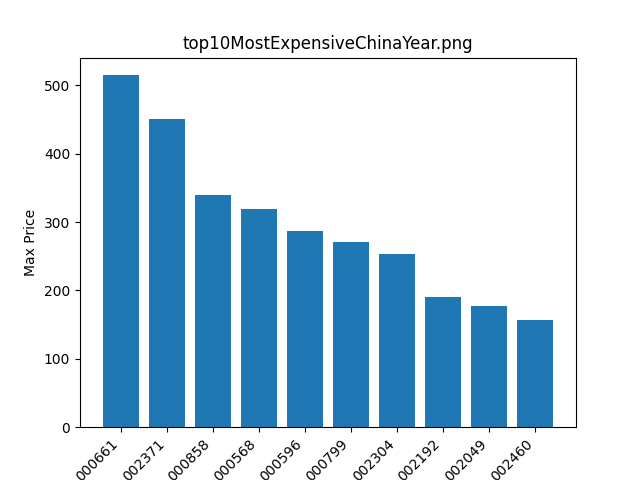
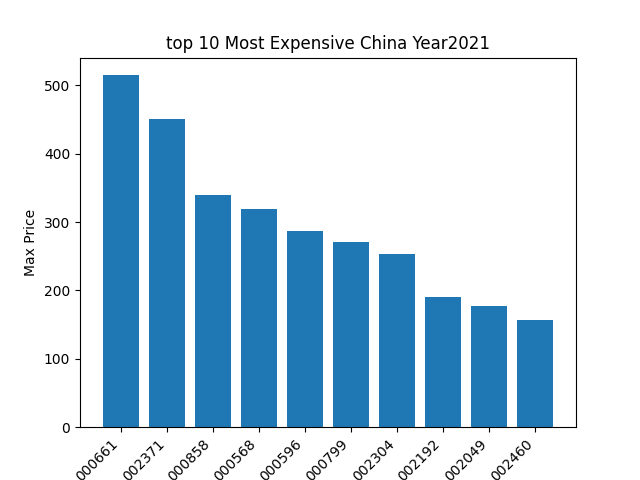
fix bug & optimize

Changed region(s): [[0.25, 0.0625, 0.75, 0.125]]

diff --git a/Script/top10MostExpensiveUSYear.py b/Script/top10MostExpensiveUSYear.py
@@ -1,8 +1,8 @@
 import os
 import sys
-import re
 from pyspark.sql import SparkSession
-from pyspark.sql.functions import col, max, udf
+from pyspark.sql.functions import col, to_date
+import pyspark.sql.functions as f
 from matplotlib import pyplot as plt
 
 
@@ -18,10 +18,10 @@ def top10MostExpensiveUSYear(dir, year):
             try:
                 df = spark.read.option("header", "true").csv(os.path.join(dir, file))
 
-                df = df.withColumn("Date", udf((lambda line : re.sub(r'(.*)-', '', line)))("Date"))
-                df = df.filter(col("Date") == year)
+                df = df.withColumn("date", to_date(df[0],"dd-MM-yyyy"))
                 df = df.withColumn("Close", col("Close").cast("float"))
-                df = df.groupBy("Date").max("Close")
+                df = df.groupBy(f.year("date").alias("Year")).max("Close")
+                df = df.where(df.Year==year)
 
                 maxprice = df.select("max(Close)").collect()[0][0]
                 maxprice = round(float(maxprice), 3)
@@ -36,23 +36,24 @@ def top10MostExpensiveUSYear(dir, year):
 
     return result[:10]
 
-def generateImg(result, path = "./"):
+def generateImg(result, year, path = "./"):
     Company, Price = zip(*result)
     plt.bar(Company, Price)
     plt.xlabel('Company')
     plt.ylabel('Max Price')
-    plt.title('top10MostExpensiveUSYear.png')
+    plt.title('top 10 Most Expensive US Year '+year)
     plt.xticks(rotation=45, ha="right")
-    plt.savefig(os.path.join(path, 'top10MostExpensiveUSYear.png'))
+    plt.savefig(os.path.join(path, 'top10MostExpensiveUSYear'+year+'.png'))
 
 if __name__ == "__main__":
     if len(sys.argv) < 3:
         print("Usage: spark-submit top10MostExpensiveUSYear.py <dataset dir> <year>")
+        exit(0)
 
     result = top10MostExpensiveUSYear(sys.argv[1], sys.argv[2])
     print(result)
 
     if len(sys.argv) > 3:
-        generateImg(result,sys.argv[3])
+        generateImg(result, sys.argv[2], sys.argv[3])
     else:
-        generateImg(result)
+        generateImg(result, sys.argv[2])

diff --git a/Script/top10MostExpensiveIndiaYear.py b/Script/top10MostExpensiveIndiaYear.py
@@ -1,8 +1,8 @@
 import os
 import sys
-import re
 from pyspark.sql import SparkSession
-from pyspark.sql.functions import col, max, udf
+from pyspark.sql.functions import col, to_date
+import pyspark.sql.functions as f
 from matplotlib import pyplot as plt
 
 
@@ -18,10 +18,10 @@ def top10MostExpensiveIndiaYear(dir, year):
             try:
                 df = spark.read.option("header", "true").csv(os.path.join(dir, file))
 
-                df = df.withColumn("date", udf((lambda line : re.sub(r'-(.*)', '', line)))("date"))
-                df = df.filter(col("date") == year)
+                df = df.withColumn("date", to_date(df[0]))
                 df = df.withColumn("close", col("close").cast("float"))
-                df = df.groupBy("date").max("close")
+                df = df.groupBy(f.year("date").alias("Year")).max("close")
+                df = df.where(df.Year==year)
 
                 maxprice = df.select("max(close)").collect()[0][0]
                 maxprice = round(float(maxprice), 3)
@@ -36,14 +36,14 @@ def top10MostExpensiveIndiaYear(dir, year):
 
     return result[:10]
 
-def generateImg(result, path = "./"):
+def generateImg(result, year, path = "./"):
     Company, Price = zip(*result)
     plt.bar(Company, Price)
     plt.xlabel('Company')
     plt.ylabel('Max Price')
-    plt.title('top10MostExpensiveIndiaYear.png')
+    plt.title('top 10 Most Expensive India Year '+year)
     plt.xticks(rotation=45, ha="right")
-    plt.savefig(os.path.join(path, 'top10MostExpensiveIndiaYear.png'))
+    plt.savefig(os.path.join(path, 'top10MostExpensiveIndiaYear'+year+'.png'))
 
 if __name__ == "__main__":
     if len(sys.argv) < 3:
@@ -54,7 +54,7 @@ if __name__ == "__main__":
     print(result)
 
     if len(sys.argv) > 3:
-        generateImg(result,sys.argv[3])
+        generateImg(result, sys.argv[2], sys.argv[3])
     else:
-        generateImg(result)
+        generateImg(result, sys.argv[2])
     

diff --git a/Script/top10MostExpensiveChinaYear.py b/Script/top10MostExpensiveChinaYear.py
@@ -1,8 +1,8 @@
 import os
 import sys
-import re
 from pyspark.sql import SparkSession
-from pyspark.sql.functions import col, max, udf
+from pyspark.sql.functions import col, to_date
+import pyspark.sql.functions as f
 from matplotlib import pyplot as plt
 
 
@@ -18,10 +18,10 @@ def top10MostExpensiveChinaYear(dir, year):
             try:
                 df = spark.read.option("header", "true").csv(os.path.join(dir, file))
 
-                df = df.withColumn("_c0", udf((lambda line : re.sub(r'-(.*)', '', line)))("_c0"))
-                df = df.filter(col("_c0") == year)
+                df = df.withColumn("date", to_date(df[0]))
                 df = df.withColumn("close", col("close").cast("float"))
-                df = df.groupBy("_c0").max("close")
+                df = df.groupBy(f.year("date").alias("Year")).max("close")
+                df = df.where(df.Year==year)
 
                 maxprice = df.select("max(close)").collect()[0][0]
                 maxprice = round(float(maxprice), 3)
@@ -36,14 +36,14 @@ def top10MostExpensiveChinaYear(dir, year):
 
     return result[:10]
 
-def generateImg(result, path = "./"):
+def generateImg(result, year, path = "./"):
     Company, Price = zip(*result)
     plt.bar(Company, Price)
     plt.xlabel('Company')
     plt.ylabel('Max Price')
-    plt.title('top10MostExpensiveChinaYear.png')
+    plt.title('top 10 Most Expensive China Year '+year)
     plt.xticks(rotation=45, ha="right")
-    plt.savefig(os.path.join(path, 'top10MostExpensiveChinaYear.png'))
+    plt.savefig(os.path.join(path, 'top10MostExpensiveChinaYear'+year+'.png'))
 
 if __name__ == "__main__":
     if len(sys.argv) < 3:
@@ -54,7 +54,7 @@ if __name__ == "__main__":
     print(result)
 
     if len(sys.argv) > 3:
-        generateImg(result,sys.argv[3])
+        generateImg(result, sys.argv[2], sys.argv[3])
     else:
-        generateImg(result)
+        generateImg(result, sys.argv[2])
     

diff --git a/Script/top10MostExpensiveUS.py b/Script/top10MostExpensiveUS.py
@@ -15,12 +15,15 @@ def top10MostExpensiveUS(dir):
 
     for file in os.listdir(dir):
         if file.endswith(".csv"):
-            df = spark.read.option("header", "true").csv(os.path.join(dir, file))
+            try:
+                df = spark.read.option("header", "true").csv(os.path.join(dir, file))
+                df = df.withColumn("Close", col("Close").cast("float"))
+                maxprice = df.agg(max(col("Close"))).collect()[0][0]
+                maxprice = round(float(maxprice), 3)
 
-            maxprice = df.agg(max(col("Close"))).collect()[0][0]
-            maxprice = round(float(maxprice), 3)
-
-            result.append((file.split(".")[0], maxprice))
+                result.append((file.split(".")[0], maxprice))
+            except: 
+                continue
 
     result = sorted(result, key=lambda x : x[1], reverse=True)
 
@@ -40,6 +43,7 @@ def generateImg(result, path = "./"):
 if __name__ == "__main__":
     if len(sys.argv) < 2:
         print("Usage: spark-submit top10MostExpensiveUS.py <dataset dir>")
+        exit(0)
 
     result = top10MostExpensiveUS(sys.argv[1])
     print(result)

diff --git a/Script/top10MostExpensiveIndia.py b/Script/top10MostExpensiveIndia.py
@@ -15,12 +15,15 @@ def top10MostExpensiveIndia(dir):
 
     for file in os.listdir(dir):
         if file.endswith(".csv"):
-            df = spark.read.option("header", "true").csv(os.path.join(dir, file))
+            try:
+                df = spark.read.option("header", "true").csv(os.path.join(dir, file))
+                df = df.withColumn("close", col("close").cast("float"))
+                maxprice = df.agg(max(col("close"))).collect()[0][0]
+                maxprice = round(float(maxprice), 3)
 
-            maxprice = df.agg(max(col("close"))).collect()[0][0]
-            maxprice = round(float(maxprice), 3)
-
-            result.append((file.split("_")[0], maxprice))
+                result.append((file.split("_")[0], maxprice))
+            except:
+                continue
 
     result = sorted(result, key=lambda x : x[1], reverse=True)
 

diff --git a/Script/top10MostExpensiveChina.py b/Script/top10MostExpensiveChina.py
@@ -17,7 +17,7 @@ def top10MostExpensiveChina(dir):
         if file.endswith(".csv"):
             try:
                 df = spark.read.option("header", "true").csv(os.path.join(dir, file))
-
+                df = df.withColumn("close", col("close").cast("float"))
                 maxprice = df.agg(max(col("close"))).collect()[0][0]
                 maxprice = round(float(maxprice), 3)
 
